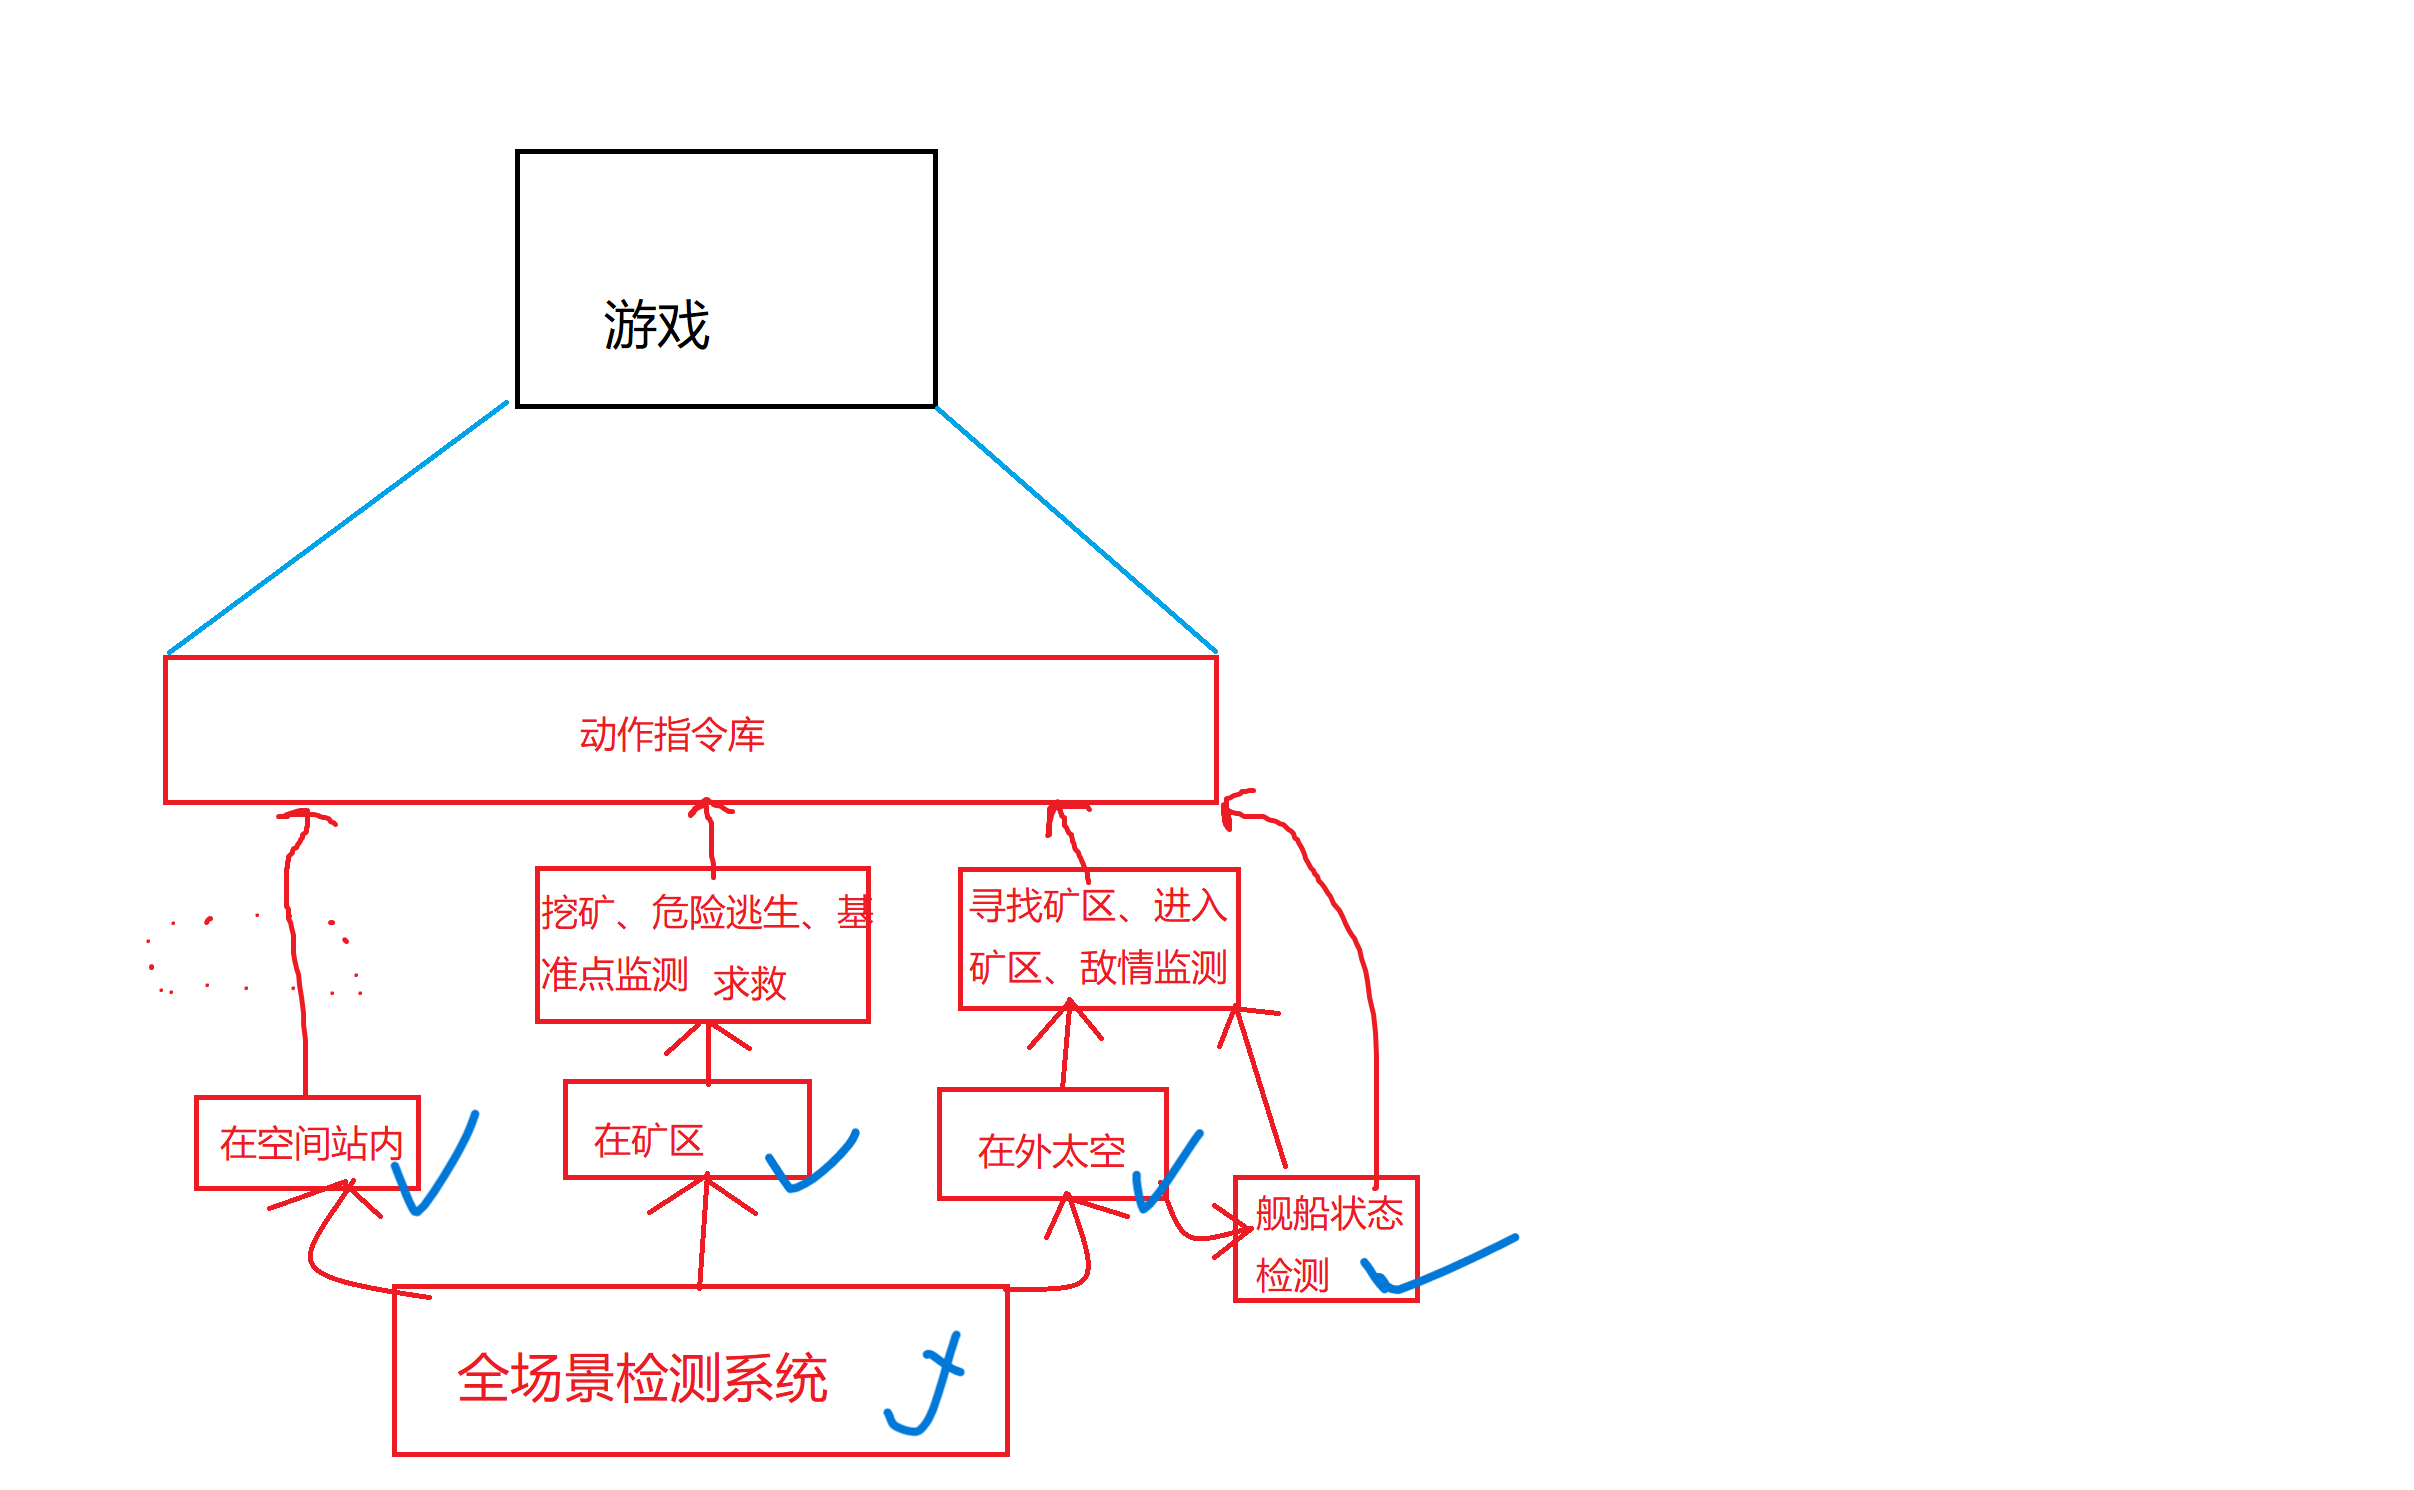
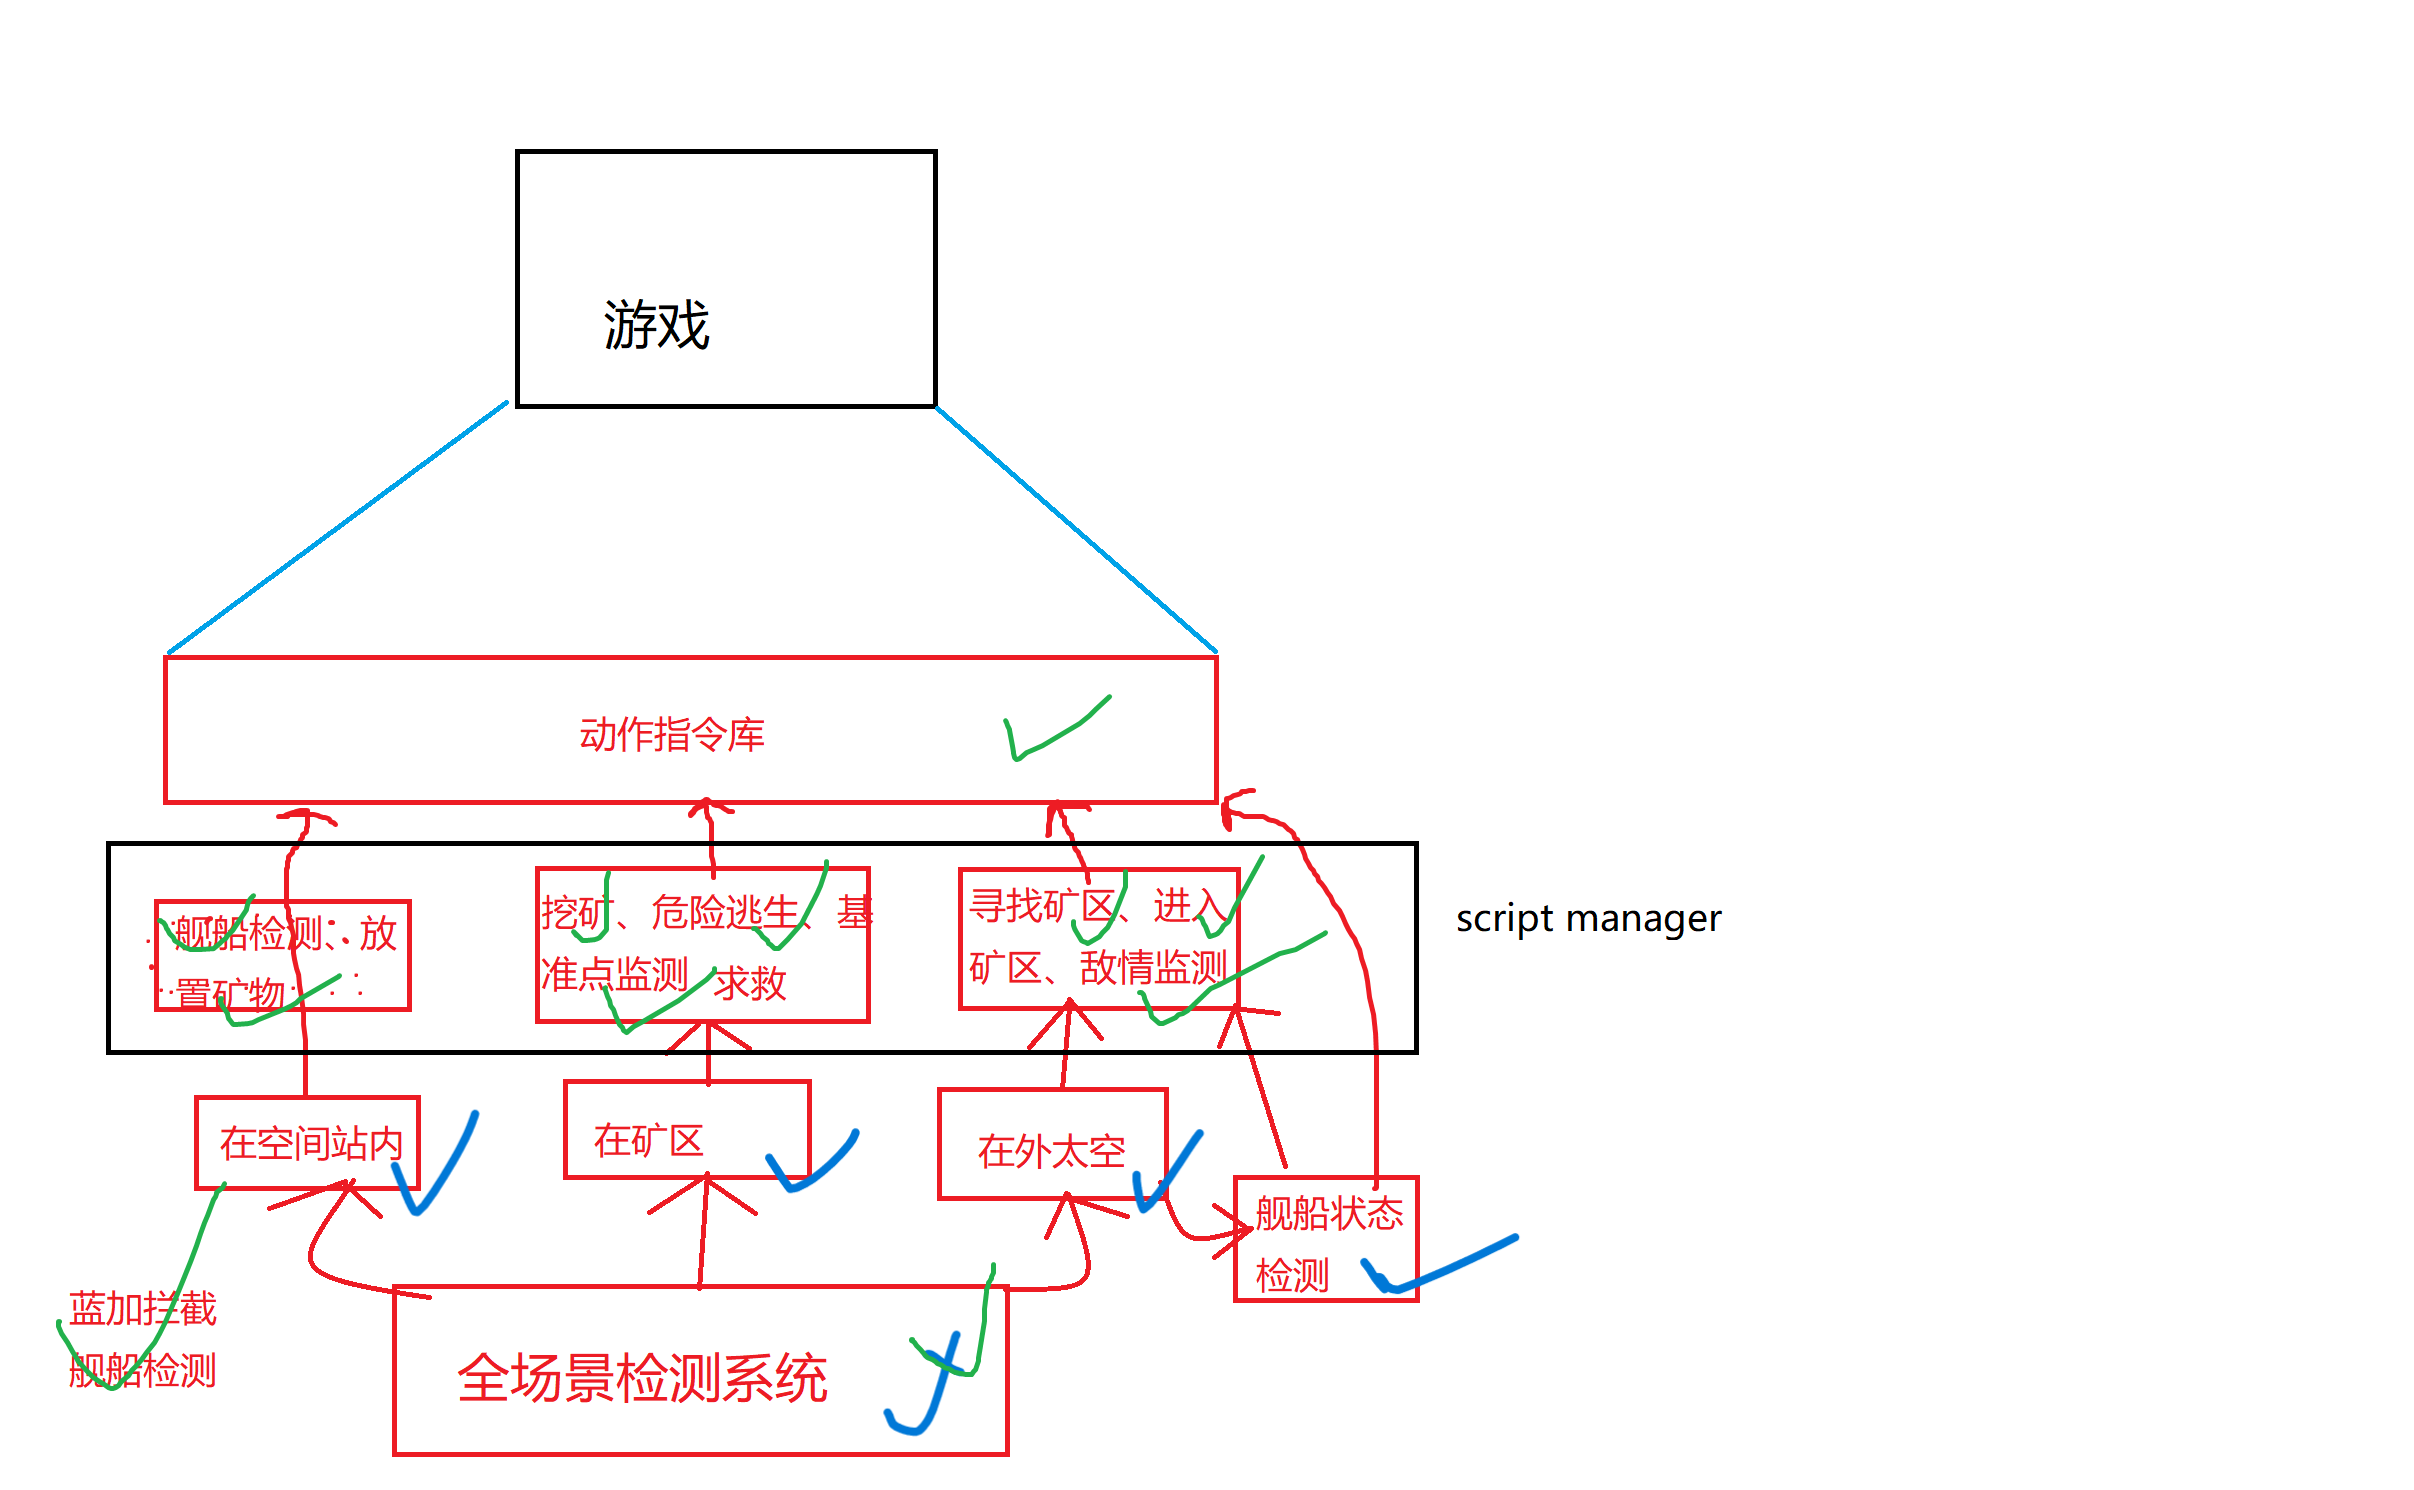
update

diff --git a/main.py b/main.py
@@ -1,11 +1,38 @@
+import imghdr
 import os
-from xmlrpc.client import Boolean
-from PIL import Image, ImageFile
+import time
+import datetime
+from PIL import Image
+import cv2
 from cnocr import CnOcr
 
 
 path = 'C:/Users/sugob/Desktop/EVE_Get_MaNei'
 devices = {'kuanggong1': '127.0.0.1:62001'}      # cmd输入adb devices查看模拟器地址
+M = {
+    '第一槽位': [920, 438],
+    '第二槽位': [868, 438],
+    '第三槽位': [814, 438],
+    '第四槽位': [924, 495],
+    '第五槽位': [868, 495],
+    '第六槽位': [914, 495],
+    '第七槽位': [924, 495],
+}
+high_cao = [M['第一槽位'], M['第二槽位'], M['第三槽位']]
+low_cao = [M['第四槽位'], M['第五槽位'], M['第六槽位'], M['第七槽位']]
+
+
+def IF_Img_I(src, mp):
+    # w, h = mp.shape[::2]
+    res = None
+    try:
+        res = cv2.matchTemplate(src,mp,cv2.TM_CCOEFF_NORMED)
+    except Exception:
+        return False, 0.999
+    _, mac_v, _, _ = cv2.minMaxLoc(res)
+    if mac_v < 0.99:
+        return True, mac_v
+    return False, mac_v
 
 
 class Listening:
@@ -20,20 +47,19 @@ class Listening:
         os.system(f'adb -s {self.device_address} exec-out screencap -p > {self.device_name}.png')
 
 
-    def crop(self, x1, y1, x2, y2, scFileName):
+    def crop(self, x1, y1, x2, y2, img: Image.Image) -> Image.Image:
         try:
-            img = Image.open(scFileName)
             newimg = img.crop((x1, y1, x2, y2))
         except Exception:
             return
         return newimg
 
 
-    def IsInSpace(self):
+    def IsInSpace(self, img: Image.Image):
         '''
         : 判断是否在太空
         '''
-        status = self.crop(453, 511, 508, 526, f'{path}/{self.device_name}.png')
+        status = self.crop(453, 511, 508, 526, img)
         if not status:
             return False
 
@@ -44,11 +70,11 @@ class Listening:
         return False
 
 
-    def IsAtSation(self):
+    def IsAtSation(self, img: Image.Image):
         '''
         : 判断是否在空间站
         '''
-        status = self.crop(877, 163, 941, 194, f'{path}/{self.device_name}.png')
+        status = self.crop(877, 163, 941, 194, img)
         if not status:
             return False
 
@@ -61,14 +87,14 @@ class Listening:
         return False
 
     
-    def IsAtKArea(self):
+    def IsAtKArea(self, img: Image.Image):
         '''
         : 判断是否在矿区
         '''
         if self.IsAtSation():
             return False
 
-        status = self.crop(755, 51, 792, 84, f'{path}/{self.device_name}.png')
+        status = self.crop(755, 51, 792, 84, img)
         if not status:
             return False
 
@@ -76,33 +102,280 @@ class Listening:
         if res == []:
             return False
         if '千米' in res[-1]['text']:
-            if int(res[-1]['text']) <= 80:
-                return True
+            try:
+                if int(res[0]['text']) <= 80:
+                    return True
+            except Exception:
+                return False
         return False
 
-    
-    def GetShipState(self):
+
+    def GetShipState(self, img: Image.Image):
         '''
         : 判断舰船状态
         : state -> 1 -> 准备跃迁
         : state -> 2 -> 跃迁至
         : state -> 3 -> 即将到达
+        : state -> 4 -> 舰船正在停止
         '''
         if self.IsAtSation():
-            return False
+            return False, -1, ''
 
-        status = self.crop(374, 394, 594, 414, f'{path}/{self.device_name}.png')
+        status = self.crop(374, 394, 594, 414, img)
+        if not status:
+            return False, -1, ''
+
+        res = self.ocr.ocr(status)
+        if res == []:
+            return False, -1, ''
+        text = res[0]['text']
+        if '准备' in text:
+            return True, 1, '准备跃迁'
+        if '跃迁至' in text:
+            return True, 2, '跃迁至'
+        if '即将到达' in text:
+            return True, 3, '即将到达'
+        if '停止' in text:
+            return True, 4, '舰船正在停止'
+        return False, -1, ''
+    
+
+    def FindBlueFuckShip(self, img: Image.Image):
+        '''
+        : 蓝加拦截 舰船监测
+        '''
+        status = self.crop(792, 51, 911, 316, img)
         if not status:
             return False
 
         res = self.ocr.ocr(status)
         if res == []:
             return False
-        text = res[0]['text']
-        if '准备跃迁' in text:
-            return True, 1, '准备跃迁'
-        if '跃迁至' in text:
-            return True, 2, '跃迁至'
-        if '即将到达' in text:
-            return True, 3, '即将到达'
+        for key in res:
+            if '拦截' in key['text']:
+                tim = str(datetime.datetime.now())
+                print(f'疑似蓝加拦截----------------{tim}')
+                print(f'疑似蓝加拦截----------------{tim}')
+                print(f'疑似蓝加拦截----------------{tim}')
+                img.save(f'{path}/{self.device_name}_疑似蓝加拦截_{tim}.png')
+                return True
         return False
+
+    
+    def IsMax(self, img: Image.Image):
+        '''
+        : 监测满仓
+        '''
+        status = self.crop(792, 51, 911, 316, img)
+        if not status:
+            return False, ''
+
+        res = self.ocr.ocr(status)
+        if res == []:
+            return False
+        try:
+            if int(((res[0]['text']).replace('%', ''))) >= 95:
+                return True
+        except Exception:
+            return False
+        return False
+    
+
+    def LocalHaveEnemy(self, img: Image.Image):
+        '''
+        : 监测本地红白
+        '''
+        i1 = self.crop(0, 408, 188, 448, img)
+        i2 = cv2.imread(f'{path}/tem/list.png')
+        i1.save(f'{path}/{self.device_name}_list.png')
+        i1 = cv2.imread(f'{path}/tem/{self.device_name}_list.png')
+        list_status, _ = IF_Img_I(i1, i2)
+        if list_status:
+            return True
+        return False
+        
+
+
+class Command:
+    def __init__(self, device_address, cnocr: CnOcr):
+        self.device_address = device_address
+        self.ocr = cnocr
+
+        self.adb = f'adb -s {self.device_address} '
+
+    
+    def crop(self, x1, y1, x2, y2, img) -> Image.Image:
+        try:
+            newimg = img.crop((x1, y1, x2, y2))
+        except Exception:
+            return
+        return newimg
+
+
+    def GetShipType(self, img: Image.Image):
+        os.system(self.adb + 'shell input tap 46 21')
+        time.sleep(0.5)
+        os.system(self.adb + 'shell input tap 141 164')
+        time.sleep(4)
+
+        state = self.crop(4, 164, 186, 198, img)
+        if not state:
+            return False, -1, ''
+        os.system(self.adb + 'shell input tap 924 31')
+
+        res = self.ocr.ocr(state)
+        if res == []:
+            return False, -1, ''
+        text = res[0]['text']
+        if '回旋' in text:
+            return True, 1, '回旋者级'
+        if '猎获' in text:
+            return True, 2, '猎获级'
+        if '妄想' in text:
+            return True, 3, '妄想级'
+        if '妄想级二' in text:
+            return True, 4, '妄想级二型'
+        if '逆' in text:
+            return True, 5, '逆戟鲸级'
+        
+        return False, -1, ''
+
+
+    def PutK(self, img: Image.Image):
+        os.system(self.adb + 'shell input tap 20 89')
+        time.sleep(4)
+        os.system(self.adb + 'shell input tap 86 77')
+
+        res = self.ocr.ocr(img)
+        if res == []:
+            return False
+        for key in res:
+            if '矿石舱' in key['text']:
+                x = int(key['position'][0][0])
+                y = int(key['position'][0][1])
+                os.system(self.adb + f'shell input tap {str(x)} {str(y)}')
+                break
+
+        time.sleep(0.3)
+        os.system(self.adb + 'shell input tap 734 487')
+        time.sleep(0.3)
+        os.system(self.adb + 'shell input tap 105 112')
+        time.sleep(0.3)
+        os.system(self.adb + 'shell input tap 427 120')
+        time.sleep(3)
+        os.system(self.adb + 'shell input tap 924 31')
+        return True
+
+
+    def SetHomePoint(self):
+        os.system(self.adb + 'shell input tap 21 146')
+        time.sleep(0.3)
+        os.system(self.adb + 'shell input tap 186 504')
+        time.sleep(0.3)
+        os.system(self.adb + 'shell input tap 302 258')
+        time.sleep(0.3)
+        os.system(self.adb + 'shell input tap 79 228')
+        time.sleep(0.3)
+        os.system(self.adb + 'shell input tap 301 199')
+        time.sleep(0.3)
+        os.system(self.adb + 'shell input tap 188 189')
+
+
+    def GoToKAreaUp(self, img: Image.Image):
+        os.system(self.adb + 'shell input tap 799 20')
+        time.sleep(0.2)
+        os.system(self.adb + 'shell input tap 817 414')
+        time.sleep(0.2)
+        os.system(self.adb + 'shell input tap 939 62')
+
+        res = self.ocr.ocr(img)
+        if res == []:
+            return False, -1, ''
+
+        css = []
+        sts = []
+        std = []
+        for key in res:
+            if '集群' in key['text']:
+                x = int(key['position'][0][0])
+                y = int(key['position'][0][1])
+                css.append([x, y])
+                continue
+            if '星群' in key['text']:
+                x = int(key['position'][0][0])
+                y = int(key['position'][0][1])
+                sts.append([x, y])
+                continue
+            if '星带' in key['text']:
+                x = int(key['position'][0][0])
+                y = int(key['position'][0][1])
+                std.append([x, y])
+                continue
+        
+        if css != []:
+            os.system(self.adb + f'shell input tap {str(css[0][0])} {str(css[0][1])}')
+            return True, 1, '小行星集群'
+        if sts != []:
+            os.system(self.adb + f'shell input tap {str(sts[0][0])} {str(sts[0][1])}')
+            return True, 2, '小行星群'
+        if std != []:
+            os.system(self.adb + f'shell input tap {str(std[0][0])} {str(std[0][1])}')
+            return True, 3, '小行星带'
+        
+        return False, -1, ''
+    
+
+    def GoToKAreaDown(self, img: Image.Image):
+        res = self.ocr.ocr(img)
+        if res == []:
+            return False
+
+        for key in res:
+            if '跃迁' in key['text']:
+                x = int(key['position'][0][0])
+                y = int(key['position'][0][1])
+                os.system(self.adb + f'shell input tap {str(x)} {str(y)}')
+                return True
+        return False
+    
+
+    def RunK(self):
+        '''
+        : 接近矿石
+        '''
+        os.system(self.adb + 'shell input tap 937, 109')
+        time.sleep(0.5)
+        os.system(self.adb + 'shell input tap 824 65')
+        time.sleep(0.5)
+        os.system(self.adb + 'shell input tap 630 133')
+
+
+    def ActHighCao(self):
+        '''
+        : 激活高槽
+        '''
+        for lis in high_cao:
+            os.system(self.adb + f'shell input tap {lis[0]} {lis[1]}')
+            time.sleep(0.5)
+
+
+    def ToShipShow(self):
+        '''
+        : 总览切换至 舰船 标签
+        '''
+        os.system(self.adb + 'shell input tap 799 20')
+        time.sleep(0.5)
+        os.system(self.adb + 'shell input tap 808 146')
+
+
+    def GoHome(self):
+        os.system(self.adb + 'shell input tap 21 147')
+
+
+    def ActLowCao(self):
+        '''
+        : 激活低槽
+        '''
+        for lis in low_cao:
+            os.system(self.adb + f'shell input tap {lis[0]} {lis[1]}')
+            time.sleep(0.05)

diff --git a/test11.py b/test11.py
@@ -2,7 +2,7 @@ from os import stat
 from cnocr import CnOcr
 import datetime
 
-img_fp = './test6.png'
+img_fp = './test12.png'
 ocr = CnOcr(rec_model_name='densenet_lite_136-gru')
 start = datetime.datetime.now()
 out = ocr.ocr(img_fp)
